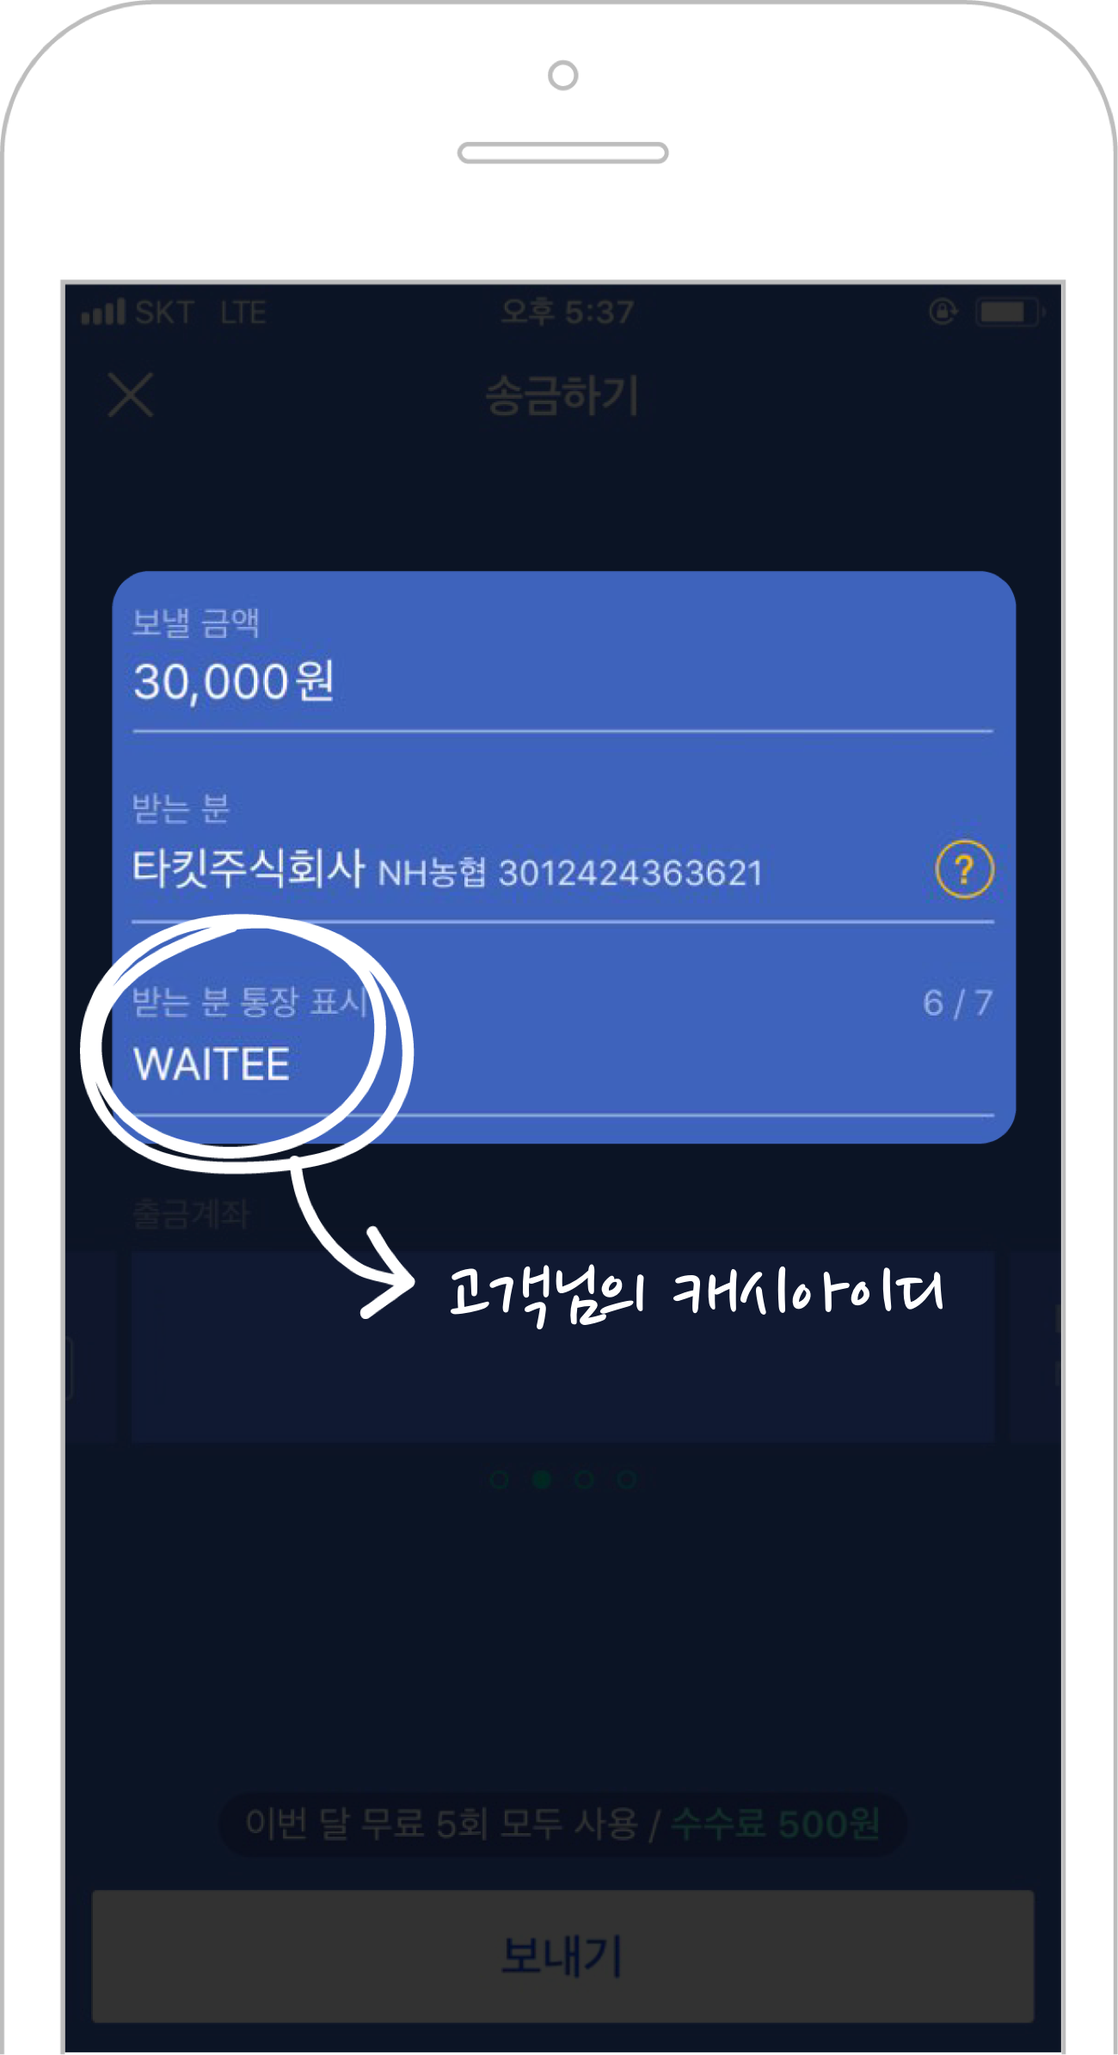
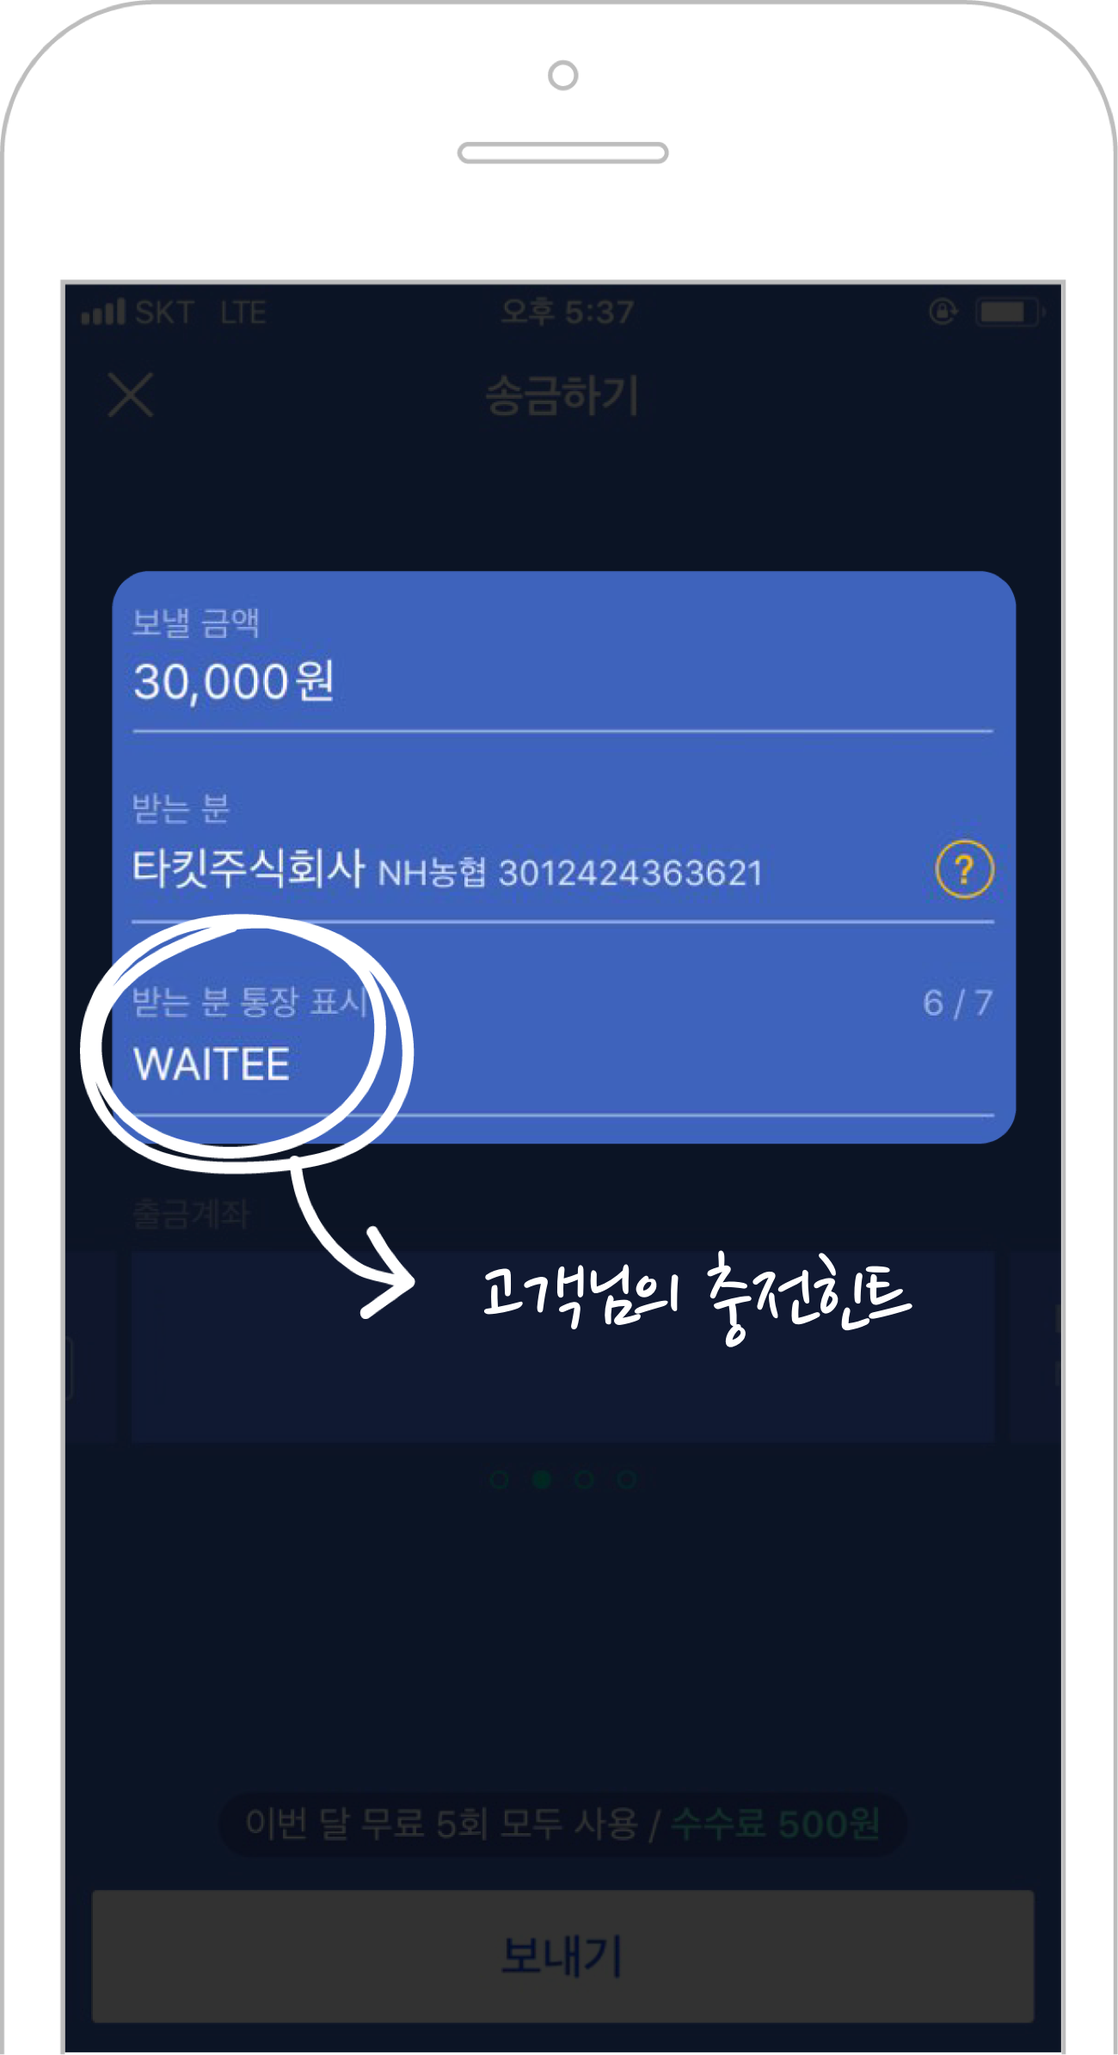
cashId->charge hint

Changed region(s): [[0.4, 0.6192, 0.8615, 0.6502]]

diff --git a/user/src/pages/faq/faq.ts b/user/src/pages/faq/faq.ts
@@ -15,21 +15,21 @@ import { IonicPage, NavController, NavParams } from 'ionic-angular';
 })
 export class FaqPage {
   questions=[{hidden:true,
-               question:"캐시아이디를 어떻게 입력하나요?",answer:"스마트폰과 인터넷 뱅킹으로 계좌이체시 받는통장 표시내용에 캐시아이디를 입력하시면 됩니다. 은행마다 캐시아이디 입력방법이 다릅니다. <br> <a href=\"http://www.takit.biz/cashId.html\">토스/주요은행 캐시아이디 입력방법 보기</a>"},
+               question:"충전힌트를 어떻게 입력하나요?",answer:"스마트폰과 인터넷 뱅킹으로 계좌이체시 받는통장 표시내용에 충전힌트를 입력하시면 됩니다. 은행마다 충전힌트 입력방법이 다릅니다. <br> <a href=\"http://www.takit.biz/cashId.html\">토스/주요은행 충전힌트 입력방법 보기</a>"},
              {hidden:true,
-               question:"캐시아이디 입력을 잊어버렸어요",answer:"내지갑->충전버튼 선택-> \"캐시아이디 입력을 잊으셨나요? +\" 버튼 선택->직접 계좌이체한 정보를 입력하시고 입금확인하기 버튼을 눌러주세요. 계좌이체시 캐시아이디를 입력하지 않았을 경우 받는 통장 표시내용은 본인의 실명이 기재됩니다."},
+               question:"충전힌트 입력을 잊어버렸어요",answer:"지갑탭->충전버튼 선택-> \"충전힌트 입력을 잊으셨나요? +\" 버튼 선택->직접 계좌이체한 정보를 입력하시고 입금확인하기 버튼을 눌러주세요. 계좌이체시 충전힌트를 입력하지 않았을 경우 받는 통장 표시내용은 본인의 실명이 기재됩니다."},
              {hidden:true,
-               question:"캐시아이디를 잘못 입력했어요",answer:"내지갑->충전버튼 선택-> \"캐시아이디 입력을 잊으셨나요? +\" 버튼 선택->계좌이체한 정보를 입력하실때 받는 통장 표시내용에 잘못 입력하신 캐시아이디를 입력하시고 입금확인하기 버튼을 눌러주세요."},
+               question:"충전힌트를 잘못 입력했어요",answer:"지갑탭->충전버튼 선택-> \"충전힌트 입력을 잊으셨나요? +\" 버튼 선택->계좌이체한 정보를 입력하실때 받는 통장 표시내용에 잘못 입력하신 충전힌트를 입력하시고 입금확인하기 버튼을 눌러주세요."},
              {hidden:true,
-               question:"고의적으로 남의 입금액을 자신의 캐시에 충전할 순 없나요?",answer:"캐시아이디를 입력하지 않으셨거나 실수로 다른 캐시아이디를 입력하셨을 경우에 대비해 고객님이 입금정보를 기재하시고 충전을 확인할수 있도록 하고 있습니다. 그러나 세번 시도에서 모두 실패하면 해당 방법의 캐시 충전 기능이 정지됩니다. 또한 법적으로 본인의 입금이 아닌 금액에 대해 충전확인을 수행할경우 사기죄로 민형사상 피소가 가능합니다. 타킷은 소송의 주체가 될수 있으며 이러한 사건이 발생할 경우 반듯이 법적인 대응을 할것입니다."},
+               question:"고의적으로 남의 입금액을 자신의 캐시에 충전할 순 없나요?",answer:"충전힌트를 입력하지 않으셨거나 실수로 다른 충전힌트를 입력하셨을 경우에 대비해 고객님이 입금정보를 기재하시고 충전을 확인할수 있도록 하고 있습니다. 그러나 세번 시도에서 모두 실패하면 해당 방법의 캐시 충전 기능이 정지됩니다. 또한 법적으로 본인의 입금이 아닌 금액에 대해 충전확인을 수행할경우 사기죄로 민형사상 피소가 가능합니다. 타킷은 소송의 주체가 될수 있으며 이러한 사건이 발생할 경우 반듯이 법적인 대응을 할것입니다."},
              {hidden:true,
-               question:"캐시 충전 확인 메시지를 받지 못했어요.",answer:"내지갑->거래내역 선택->충전 확인을 클릭 하시면 충전 확인 메시지를 보실수 있습니다. 만약 5분이 지나도 확인 항목이 없다면 고객센터(0505-170-3636,help@takit.biz)에 연락부탁드립니다."},
+               question:"캐시 충전 확인 메시지를 받지 못했어요.",answer:"지갑탭->입급확인 대기중 항목을 클릭 하시면 충전 확인 메시지를 보실수 있습니다. 만약 5분이 지나도 확인 항목이 없다면 고객센터(0505-170-3636,help@takit.biz)에 연락부탁드립니다."},
              {hidden:true,
-               question:"캐시 충전 확인 메시지에서 확인을 요청하지 않고 취소를 선택했어요.",answer:"내지갑->거래내역 선택->충전 확인버튼으로 나온 항목의 확인버튼을 클릭 하시면 충전 확인 메시지를 다시 보실수 있습니다."},
+               question:"캐시 충전 확인 메시지에서 확인을 요청하지 않고 취소를 선택했어요.",answer:"지갑탭->입급확인 대기중 항목을 클릭 하시면 충전 확인 메시지를 다시 보실수 있습니다."},
              {hidden:true,
-               question:"본인명의 휴대폰이 없어요.",answer:"타킷은 보안을 위해 캐시아이디 설정시 본인확인 과정을 거치고 있습니다. 본인명의 휴대폰이 없을 경우 사용이 불가능합니다."},
+               question:"본인명의 휴대폰이 없어요.",answer:"타킷은 보안을 위해 충전힌트 설정시 본인확인 과정을 거치고 있습니다. 본인명의 휴대폰이 없을 경우 사용이 불가능합니다."},
              {hidden:true,
-               question:"캐시비밀번호를 잊어버렸어요.",answer:"내지갑->설정버튼을 누르시면 휴대폰 본인인증 이후 비밀번호를 수정하실수 있습니다."},
+               question:"캐시비밀번호를 잊어버렸어요.",answer:"나의 정보->결제비밀번호의 변경하기 버튼을 클릭하시면 휴대폰 본인인증 이후 비밀번호를 수정하실수 있습니다."},
              {hidden:true,
                question:"서비스 이용 가능한 나이는 어떻게 되나요?",answer:"만14세 이상부터 가능합니다"},
              {hidden:true,
@@ -37,9 +37,9 @@ export class FaqPage {
              {hidden:true,
                question:"ATM기로도 캐시 충전이 가능한가요?",answer:"아직 이부분 준비되지 않았습니다. 곧 준비하도록 하겠습니다."},
              {hidden:true,
-               question: "타인의 입금이 저에게 충전 확인 메시지가 전달되었어요. 어떻게 해야 하나요?",answer:"타인의 충전 확인 메시지를 수신하셨을시에 충전하지않습니다를 선택해 진행해 주시면됩니다."},
+               question: "타인의 입금이 저에게 충전 확인 메시지가 전달되었어요. 어떻게 해야 하나요?",answer:"타인의 충전 확인 메시지를 수신하셨을시에 취소를 선택하시고 캐쉬 충전 취소 화면에서 확인을 클릭 해 주시면됩니다."},
              {hidden:true,
-               question: "무료 결제수수료가 어떤 의미인가요?",answer:"고객님의 온라인 결제시 카드 결제 수수료는 3.2%, 은행자동인출은 450원,가상계좌는 300원의 수수료가 지불됩니다. 타킷캐시는 여러분의 캐시아이디 입력을 통해 외부수수료 없이 운영 됩니다. 상점주는 결제 수수료 없이 타킷 서비스 수수료 0.25%(200만원 이하 매출 0.5%)만을 지불하시면 됩니다."},
+               question: "무료 결제수수료가 어떤 의미인가요?",answer:"고객님의 온라인 결제시 카드 결제 수수료는 3.2%, 은행자동인출은 450원,가상계좌는 300원의 수수료가 지불됩니다. 타킷캐시는 여러분의 충전힌트 입력을 통해 외부수수료 없이 운영 됩니다. 상점주는 결제 수수료 없이 타킷 서비스 수수료 1%만을 지불하시면 됩니다."},
              ];
 
   constructor(public navCtrl: NavController, public navParams: NavParams) {

diff --git a/user/src/pages/signup-payment/signup-payment.ts b/user/src/pages/signup-payment/signup-payment.ts
@@ -78,7 +78,7 @@ export class SignupPaymentPage {
 
         if(this.cashId.trim().length<5 || this.cashId.trim().length>7 || valid==false){
             let alert = this.alertCtrl.create({
-                        title: '영문,숫자조합 5~7자리로 캐시아이디를 설정해주시기 바랍니다.',
+                        title: '영문,숫자조합 5~7자리로 충전힌트를 설정해주시기 바랍니다.',
                         buttons: ['OK']
                     });
             alert.present();       
@@ -86,7 +86,7 @@ export class SignupPaymentPage {
         }
         if(!this.cashIdUnique){
             let alert = this.alertCtrl.create({
-                        title: '캐시아이디 중복을 확인해 주시기 바랍니다',
+                        title: '충전힌트 중복을 확인해 주시기 바랍니다',
                         buttons: ['OK']
                     });
             alert.present();       
@@ -108,7 +108,7 @@ checkCashIdDuplicate(){
 
     if(this.cashId.trim().length<5 || this.cashId.trim().length>7 || valid==false){
         let alert = this.alertCtrl.create({
-                    title: '영문,숫자조합 5~7자리로 캐시아이디를 설정해주시기 바랍니다.',
+                    title: '영문,숫자조합 5~7자리로 충전힌트를 설정해주시기 바랍니다.',
                     buttons: ['OK']
                 });
         alert.present();       
@@ -130,7 +130,7 @@ checkCashIdDuplicate(){
                     }else{ // res.duplication=='duplication'
                         this.cashIdUnique=false;
                         let alert = this.alertCtrl.create({
-                            title: "사용불가능합니다. 캐시아이디를 다시 설정해주시기 바랍니다.",
+                            title: "사용불가능합니다. 충전힌트를 다시 설정해주시기 바랍니다.",
                             buttons: ['OK']
                         });
                         alert.present();
@@ -147,7 +147,7 @@ checkCashIdDuplicate(){
                         alert.present();
                     }else{
                             let alert = this.alertCtrl.create({
-                                title: "캐시아이디 중복확인에 실패했습니다. 잠시후 다시 시도해 주시기 바랍니다.",
+                                title: "충전힌트 중복확인에 실패했습니다. 잠시후 다시 시도해 주시기 바랍니다.",
                                 buttons: ['OK']
                             });
                             alert.present();
@@ -254,13 +254,13 @@ checkCashIdDuplicate(){
                         this.startInProgress=false;
                         if(res.hasOwnProperty("error") && res.error=="duplicationCashId"){
                             let alert = this.alertCtrl.create({
-                                title: this.cashId.trim().toUpperCase()+"(이)가 이미 존재합니다. 캐시아이디를 변경해주시기바랍니다.",
+                                title: this.cashId.trim().toUpperCase()+"(이)가 이미 존재합니다. 충전힌트를 변경해주시기바랍니다.",
                                 buttons: ['OK']
                             });
                             alert.present();
                         }else{
                             let alert = this.alertCtrl.create({
-                                title: "캐시아이디 설정에 실패했습니다. 잠시후 다시 시도해 주시기 바랍니다.",
+                                title: "충전힌트 설정에 실패했습니다. 잠시후 다시 시도해 주시기 바랍니다.",
                                 buttons: ['OK']
                             });
                             alert.present();
@@ -276,7 +276,7 @@ checkCashIdDuplicate(){
                         alert.present();
                     }else{
                             let alert = this.alertCtrl.create({
-                                title: "캐시아이디 설정에 실패했습니다. 잠시후 다시 시도해 주시기 바랍니다.",
+                                title: "충전힌트 설정에 실패했습니다. 잠시후 다시 시도해 주시기 바랍니다.",
                                 buttons: ['OK']
                             });
                             alert.present();

diff --git a/user/src/pages/cash-tutorial/cash-tutorial.ts b/user/src/pages/cash-tutorial/cash-tutorial.ts
@@ -19,13 +19,13 @@ export class CashTutorialPage {
     currentIndex=0;
 
     tutorials = [{img:'assets/imgs/cashGuideImg/cashGuide1.png', title:"온라인 계좌이체", 
-                    contents:"고객님의 캐시아이디를 받는통장표시 내용에 입력해주세요 대소문자 구분은 없으며 1회 10만원 이하의 금액만 충전가능합니다."},
+                    contents:"고객님의 충전힌트를 받는통장표시 내용에 입력해주세요 대소문자 구분은 없으며 1회 10만원 이하의 금액만 충전가능합니다."},
     {img:'assets/imgs/cashGuideImg/cashGuide2.png', title:"입금 확인 / 충전완료",
       contents:"이체 후 15초 내로 오는 입금 확인 알림의 법적 고지에 동의하시면 충전이 됩니다."},
     {img:'assets/imgs/cashGuideImg/cashGuide3.png', title:"입금확인 대기중",
       contents:"네트워크 상황에 따라 입금 확인 알람이 전달되지 않을 수 있습니다. 지갑 탭에서 ‘입금확인대기중!’을 눌러 충전가능합니다."},
     {img:'assets/imgs/cashGuideImg/cashGuide4.png',title:"입금 수동 확인",
-      contents:"지갑 탭의 충전에서 ‘캐시 아이디 입력을 잊으셨나요?’를 클릭 후 이체정보를 채워주세요. 통장 표시내용은 본인의 실명입니다."}];
+      contents:"지갑 탭의 충전에서 ‘충전 힌트 입력을 잊으셨나요?’를 클릭 후 이체정보를 채워주세요. 통장 표시내용은 본인의 실명입니다."}];
 
   constructor(public navCtrl: NavController, public navParams: NavParams) {
   }

diff --git a/user/src/pages/cash-cancel-charge/cash-cancel-charge.html b/user/src/pages/cash-cancel-charge/cash-cancel-charge.html
@@ -19,6 +19,7 @@
       {{timeString}}
     </ion-col>
   </ion-row>
+  <!--
   <ion-row  style="padding:0px;border-top:solid;border-width:1px;border-top-color:#dddddd;">
     <ion-col class="info-label" col-3>
       입금은행  
@@ -27,6 +28,7 @@
       {{bank}}
     </ion-col>
   </ion-row>
+  -->
 </ion-grid>
 <div style="font-size:4.5vw;" text-center>
 타인의 입금으로 캐쉬 충전을 취소합니다.
@@ -35,10 +37,12 @@
 </ion-content>
 <ion-footer>
 <div class="warning" text-center>
-*본인의 입금일 경우, 고객센터로 연락 주시면 <br><br>
+*본인의 입금일 경우,<br>
+고객센터((0505-170-3636,help@takit.biz)로 연락 주시면 <br>
 다시 충전 확인이 가능합니다.
 </div>
 <ion-row>
-<ion-col no-padding no-margin><button no-margin ion-button full (click)="deleteDepositInput()" color="primary">확인</button></ion-col>
+<ion-col no-padding no-margin><button no-margin ion-button full (click)="back()" class="deny" >취소</button></ion-col>
+<ion-col no-padding no-margin><button no-margin ion-button full (click)="deleteDepositInput()" color="primary">타인 입금</button></ion-col>
 </ion-row>
 </ion-footer>

diff --git a/user/src/pages/cash-tutorial/cash-tutorial.html b/user/src/pages/cash-tutorial/cash-tutorial.html
@@ -20,7 +20,7 @@
     <ion-slides no-margin no-padding #Slides (ionSlideDidChange)="slideChanged()" pager=true >
         <ion-slide centeredSlides parallaxed *ngFor="let tt of tutorials; let i=index" class="slide-tt">
                 <p  text-left class="p-desc-contents">{{tt.contents}}</p>
-                <a *ngIf="i===0" style="font-size:3.2vw;color:#BDBDBD" href="http://www.waitee.co.kr/cashId.html">토스/주요은행 캐시아이디 입력방법</a>              
+                <a *ngIf="i===0" style="font-size:3.2vw;color:#BDBDBD" href="http://www.waitee.co.kr/cashId.html">토스/주요은행 충전힌트 입력방법</a>              
                 <p *ngIf="i===1" text-left class="addition" style="font-size:3.2vw;color:#BDBDBD" no-margin no-padding>(단 00:00~00:30, 매월 3주 월요일 23:55~04:00 이용제한시간 이후 메시지가 전달됩니다.)</p>
                 <img [src]="tt.img">
         </ion-slide>

diff --git a/user/src/pages/cash-confirm/cash-confirm.ts b/user/src/pages/cash-confirm/cash-confirm.ts
@@ -114,7 +114,7 @@ export class CashConfirmPage {
                         depositDate:this.timeString};
        this.removeDuplicate();      
        this.viewCtrl.dismiss();
-//       this.app.getRootNav().push(CashCancelChargePage,param);
+       this.app.getRootNav().push(CashCancelChargePage,param);
   }
 
   charge(){
@@ -168,7 +168,7 @@ export class CashConfirmPage {
                         alert.present();
                     }else{
                             let alert = this.alertController.create({
-                                title: "캐쉬아이디 설정에 실패했습니다. 잠시후 다시 시도해 주시기 바랍니다.",
+                                title: "충전 확인에 실패했습니다. 잠시후 다시 시도해 주시기 바랍니다.",
                                 buttons: ['OK']
                             });
                             alert.present();

diff --git a/user/src/pages/cash-charge/cash-charge.html b/user/src/pages/cash-charge/cash-charge.html
@@ -28,7 +28,7 @@
 </div>
 <ion-row class="cash-id">
   <ion-col col-9 no-padding no-margin text-left>
-  받는 통장 표시 내용 (캐시 아이디)
+  받는 통장 표시 내용 (충전 힌트)
   </ion-col>
   <ion-col col-3 no-padding no-margin text-right>
     {{storageProvider.cashId}}
@@ -37,7 +37,7 @@
 <button class="manual-check" (click)="manualCheck()" no-padding no-margin ion-button full>
   <ion-row no-padding no-margin> 
     <ion-col no-padding no-margin class="question" text-left col-11>
-      캐시 아이디 입력을 잊으셨나요?
+      충전 힌트 입력을 잊으셨나요?
     </ion-col>
     <ion-col no-padding no-margin text-right col-1>
       <ion-icon name="ios-add"></ion-icon>

diff --git a/user/src/pages/cash-manual-confirm/cash-manual-confirm.html b/user/src/pages/cash-manual-confirm/cash-manual-confirm.html
@@ -4,7 +4,7 @@
         <button clear style="color:#6441a5;background-color:#f2f2f2;" (click)="back()" ><ion-icon style="font-size:4.8vw;" name="md-close"></ion-icon></button>  
     </ion-col>
     <ion-col col-8 style="font-size:4.8vw;color:#6441a5;">
-      <b>캐시 아이디 입력을 잊으셨나요?</b>
+      <b>충전 힌트 입력을 잊으셨나요?</b>
     </ion-col>
     <ion-col col-1>
     </ion-col>

diff --git a/user/src/pages/signup-payment/signup-payment.html b/user/src/pages/signup-payment/signup-payment.html
@@ -17,7 +17,7 @@
 <ion-content>
   <ion-list>
     <ion-item>
-    <ion-label class="value-label" >캐시아이디(필수)</ion-label>
+    <ion-label class="value-label" >충전힌트(필수)</ion-label>
     </ion-item>
     <ion-row>
       <ion-col col-8>
